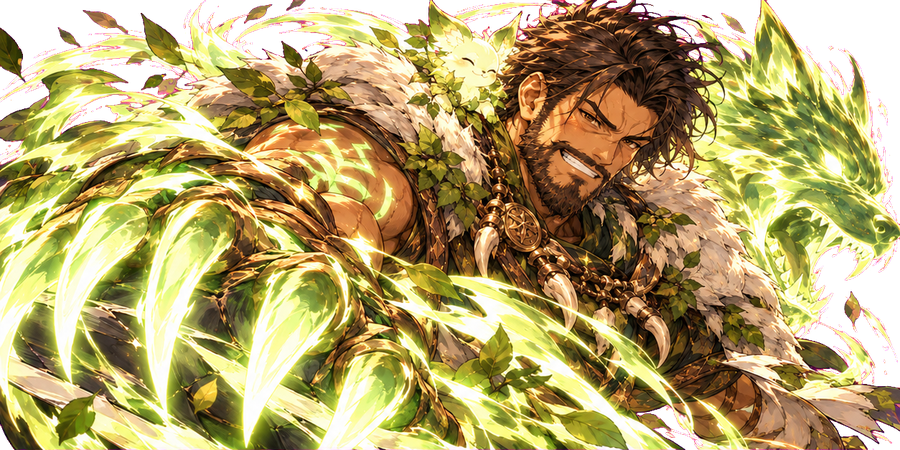
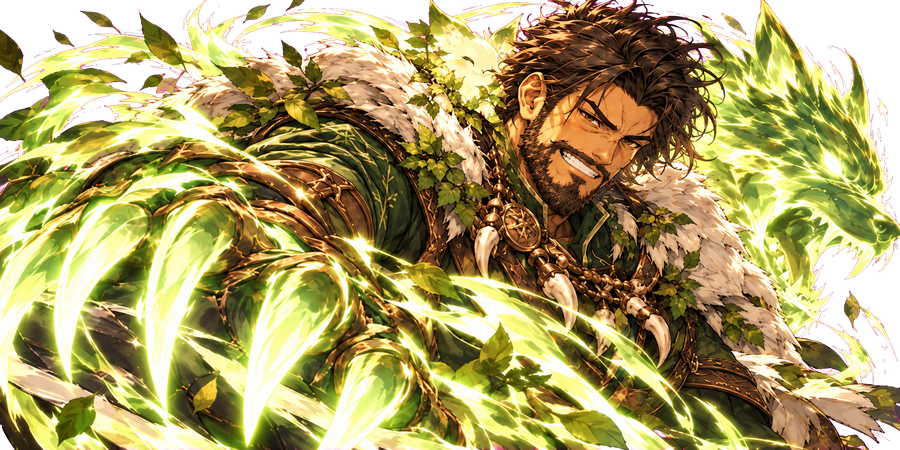
art: UI 키트(패널·버튼·탭·칸·HUD·바) · 스킬 아이콘 108개 · 황짐승 옷 입힘·8등신 · docs/ART_UI_1017.md
Claude-Session: https://claude.ai/code/session_01BobDL1ZCo2XQw8SBskpwFb

diff --git a/docs/ART_UI_1017.md b/docs/ART_UI_1017.md
@@ -1,0 +1,26 @@
+# UI 키트 · 스킬 아이콘 · 황짐승 수정 (10/17) — UI_POLISH_1017 5·6번 재료
+
+## UI 키트 `public/art/ui/kit/` (투명 PNG, 원본 크기 · 그림 테두리 → CSS `border-image`)
+| 파일 | 크기 | 쓰는 곳 | 9-slice (위 오른 아래 왼, px) |
+|---|---|---|---|
+| panel_parchment.png | 913×525 | 큰 양피지 패널(영웅 정보·상점 칸·팝업) | 70 70 70 70 |
+| panel_navy.png | 461×229 | 남색 패널(전투 DPS판·툴팁·편성 파티칸) | 40 40 40 40 |
+| btn_blue.png | 468×123 | 기본 버튼(전투 준비·확인) | 0 70 0 70 (가로만 늘림) |
+| btn_gold.png | 467×126 | 강조 버튼(구매·영입·각성) | 0 70 0 70 |
+| skill_ring.png | 212×209 | 전투 HUD 스킬 버튼 틀(아이콘 위에 덮기) | 통째 |
+| slot_common/uncommon/rare/epic/legend.png | ~180² | 장비·아이템·보상 칸 틀(등급별) | 40 40 40 40 또는 통째 |
+| tab.png / tab_on.png | 310×93 / 334×95 | 탭(기본/선택) | 0 50 0 50 |
+| capsule.png | 517×79 | 상단 재화 바 | 0 50 0 50 |
+| hud_card.png | 722×200 | 전투 아래 영웅 칸 판(왼쪽 네모=초상화 자리) | 통째 배경(contain) |
+| bar_hp.png / bar_mp.png | 481×64 | HP·마나 바 틀(안쪽 채움은 CSS로 그대로) | 0 50 0 50 |
+| btn_close.png / btn_back.png | 둥근 금 테 | 닫기·뒤로 | 통째 |
+
+- 위 숫자는 그림을 보고 잡은 값(추정) → 화면에서 모서리 장식이 늘어나 보이면 조정.
+- 테두리 그림이 들어가면 기존 1px 선·회색 테두리는 지움(UI_POLISH 2번).
+
+## 스킬 아이콘 `public/art/skills/<영웅id>_<0|1|2>.png` — 108개, 128×128, 금 테두리 포함
+- 0·1·2 = heroes.ts `skills` 배열 순서. 전투 HUD 스킬 버튼·영웅 정보 「스킬」 탭에 기호 아이콘 대신. 아이콘 위에 `skill_ring.png`를 덮어도 되고, 아이콘 자체에 금테가 있으니 둥근 버튼이면 원형으로 잘라 써도 됨.
+- 원본 시트: art_raw/skills/
+
+## 황짐승 (가슴 노출 줄임 · 다리 긴 8등신)
+- `fullbody/hwang.png`, `portraits_hd/hwang.png`, `cutin/hwang.png` 교체 → 같은 파일 이름이라 코드 할 일 없음. 카드·초상화 캐시만 확인.
